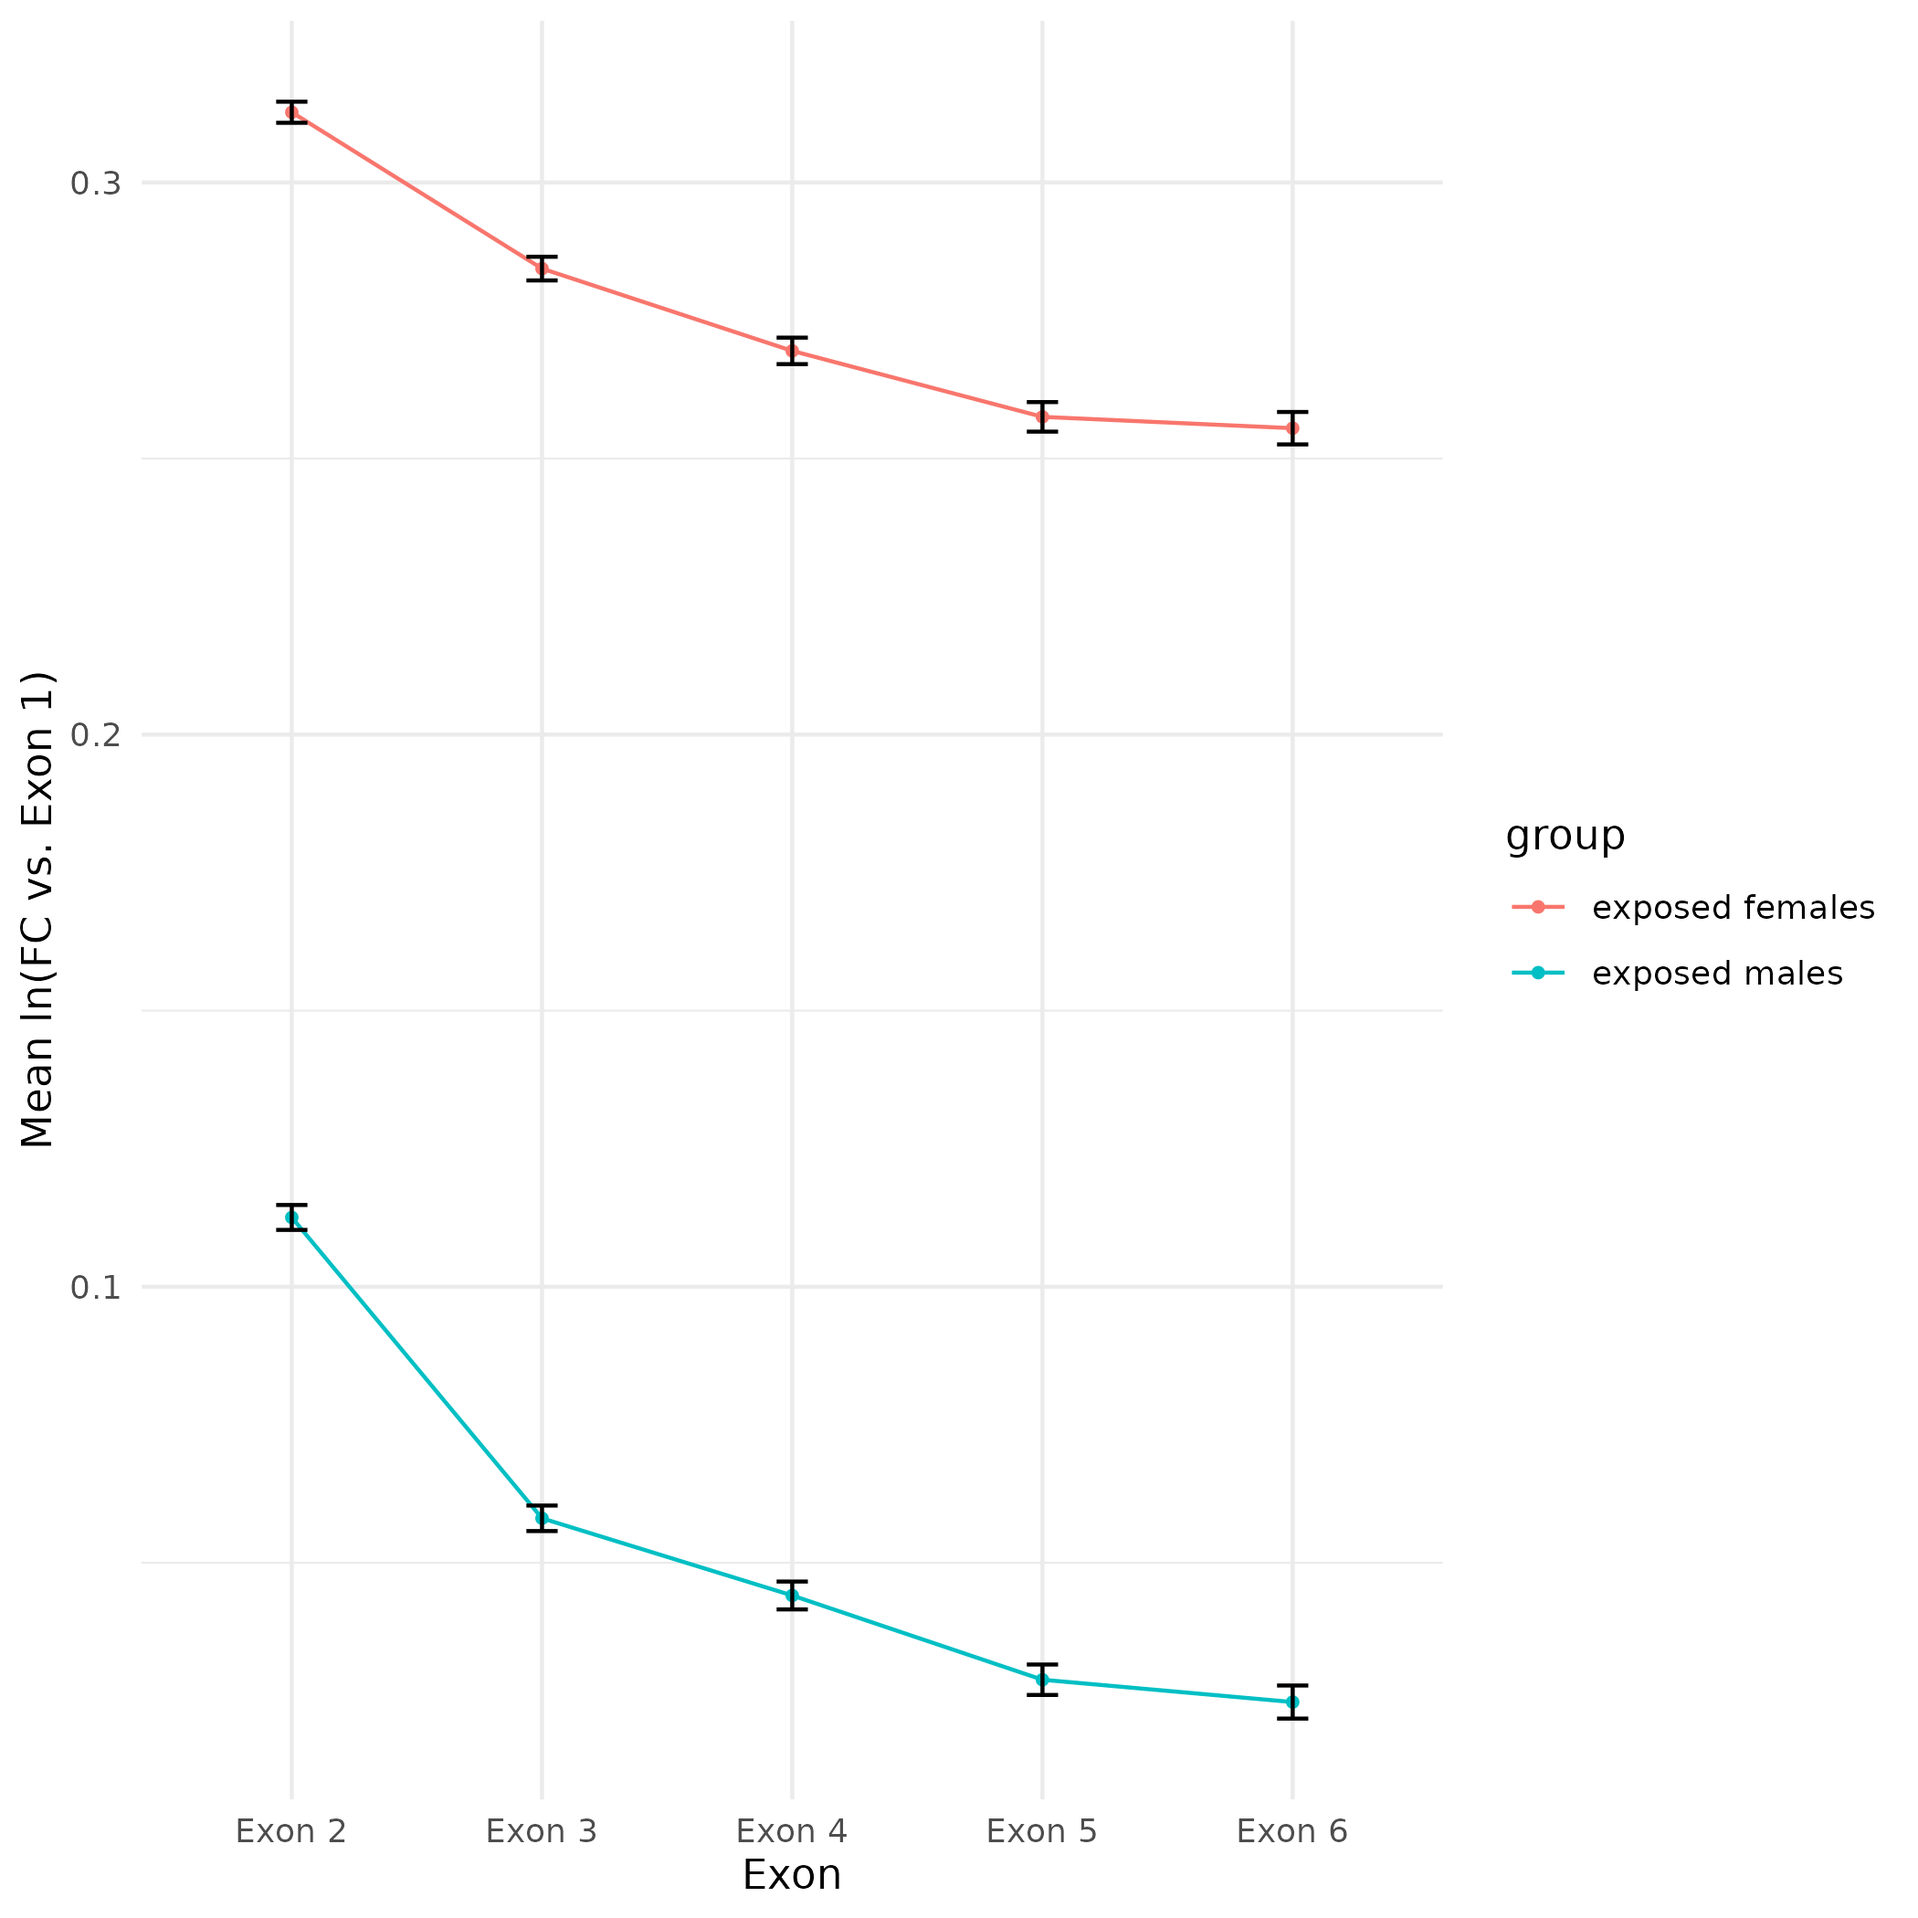
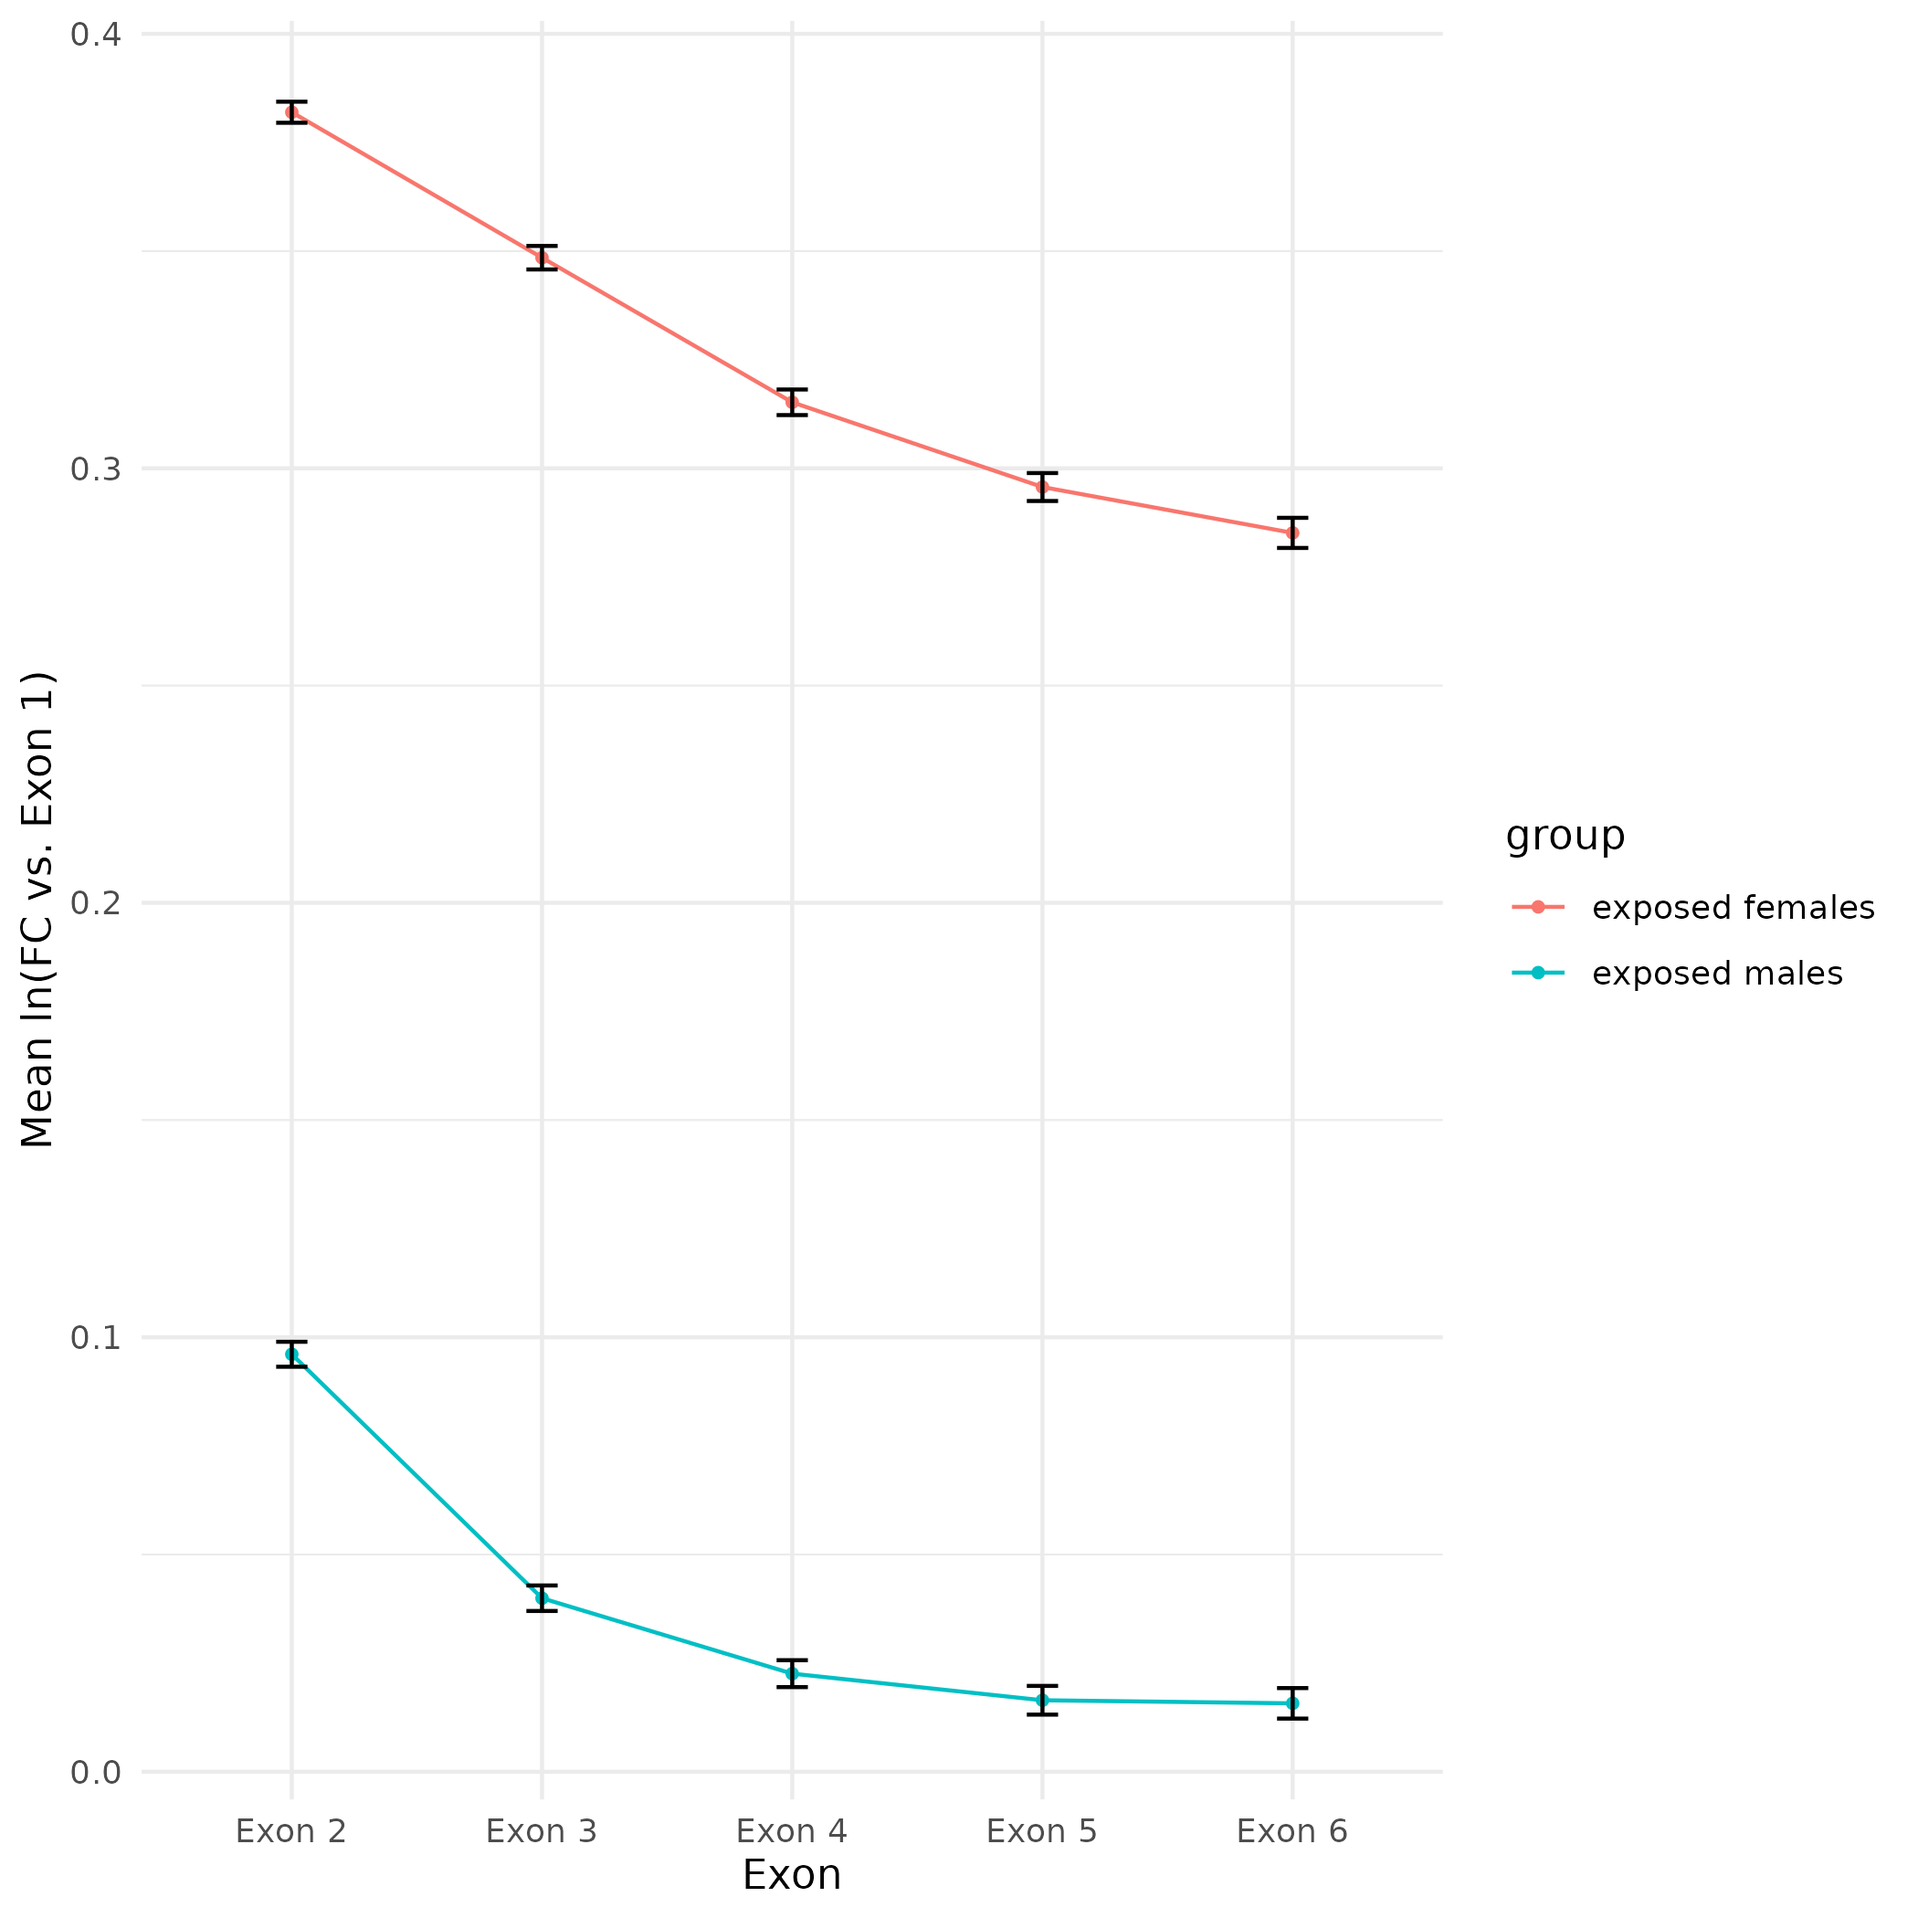
update to use exon sum threshold of 10

diff --git a/output/65-exon-coverage/figures/README.md b/output/65-exon-coverage/figures/README.md
@@ -1,0 +1,18 @@
+`ceabigr/output/65-exon-coverage/figures`
+
+## Directory for figures generated by [`ceabigr/code/65-exon-coverage.qmd`](https://github.com/sr320/ceabigr/blob/main/code/65-exon-coverage.qmd).
+
+---
+
+- `control-females.v.control-males-line_plot.png`: Line plot comparing mean ln(fold change vs. Exon 1) of control females/males. Sum of exon read counts for Exons 1 - 6 threshold of 10.
+
+- `control-females.v.exposed-females-line_plot.png`: Line plot comparing mean ln(fold change vs. Exon 1) of control females to exposed females. Sum of exon read counts for Exons 1 - 6 threshold of 10.
+
+- `control-males.v.exposed-males-line_plot.png`: Line plot comparing mean ln(fold change vs. Exon 1) of control males to exposed males. Sum of exon read counts for Exons 1 - 6 threshold of 10.
+
+- `controls.v.exposed-line_plot.png`: Line plot comparing mean ln(fold change vs. Exon 1) of controls/exposed. Sum of exon read counts for Exons 1 - 6 threshold of 10.
+
+- `exposed-females.v.exposed-males-line_plot.png`: Line plot comparing mean ln(fold change vs. Exon 1) of exposed females to exposed males. Sum of exon read counts for Exons 1 - 6 threshold of 10.
+
+- `females.v.males-line_plot.png`: Line plot comparing mean ln(fold change vs. Exon 1) of females/males. Sum of exon read counts for Exons 1 - 6 threshold of 10.
+
